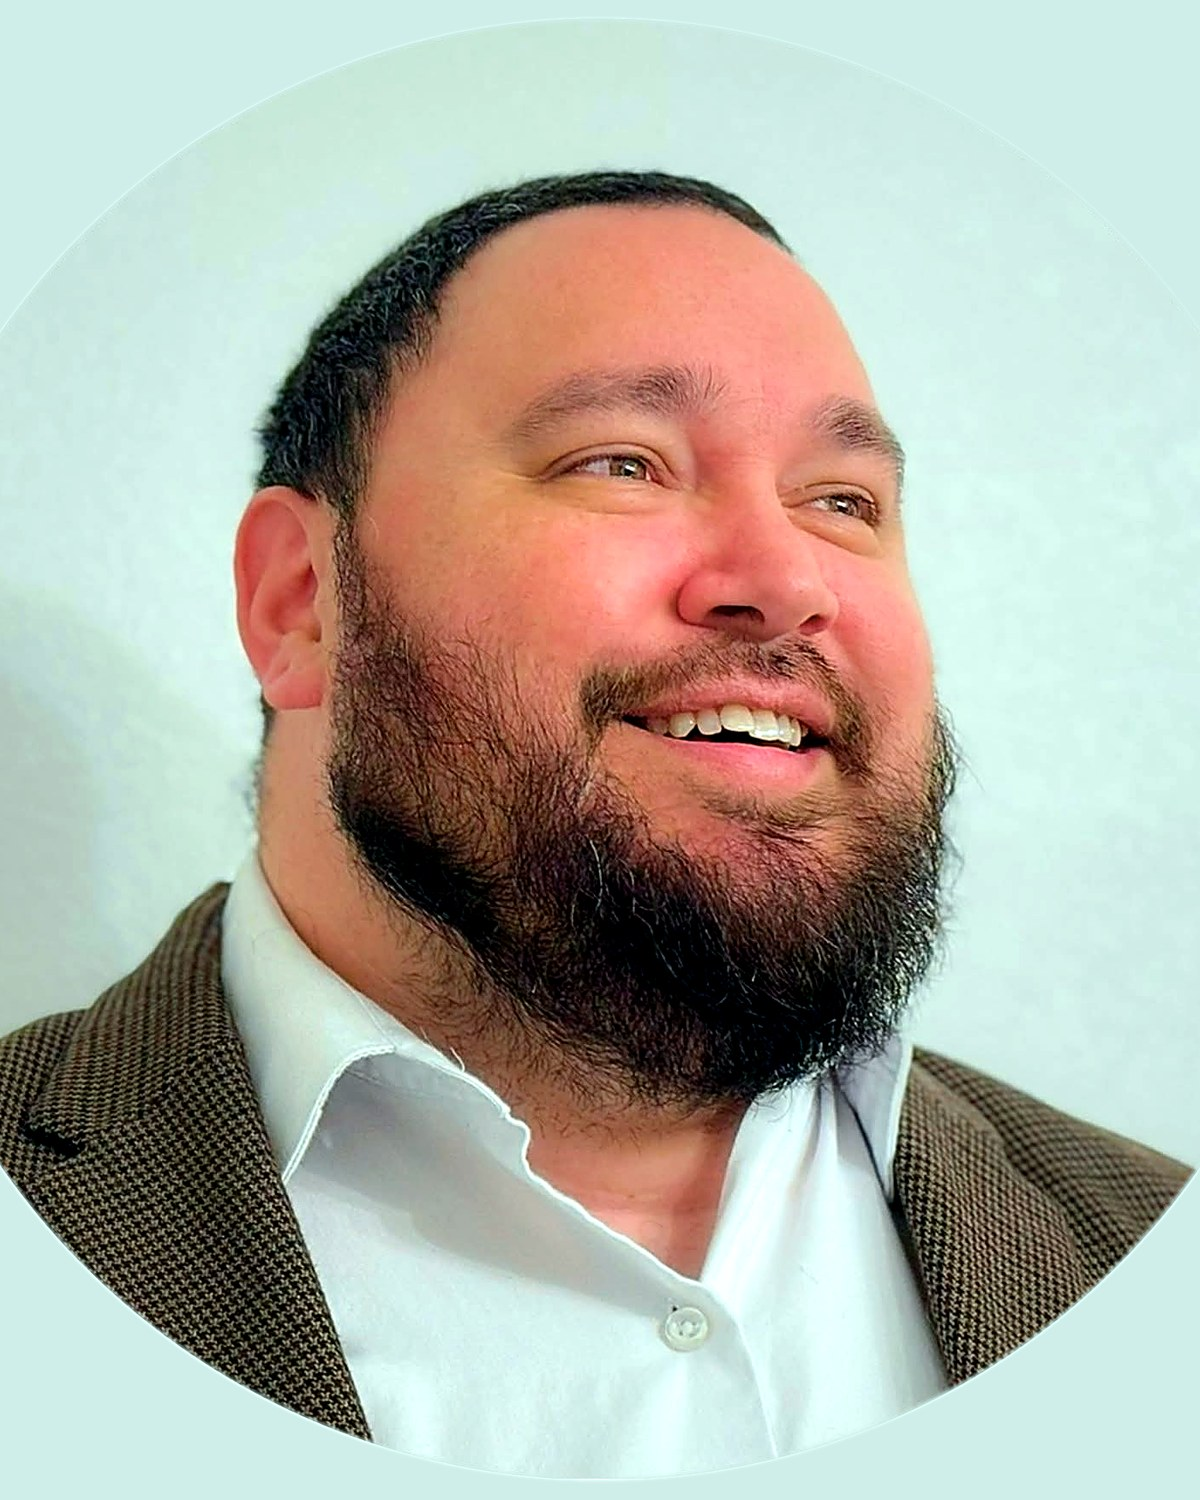
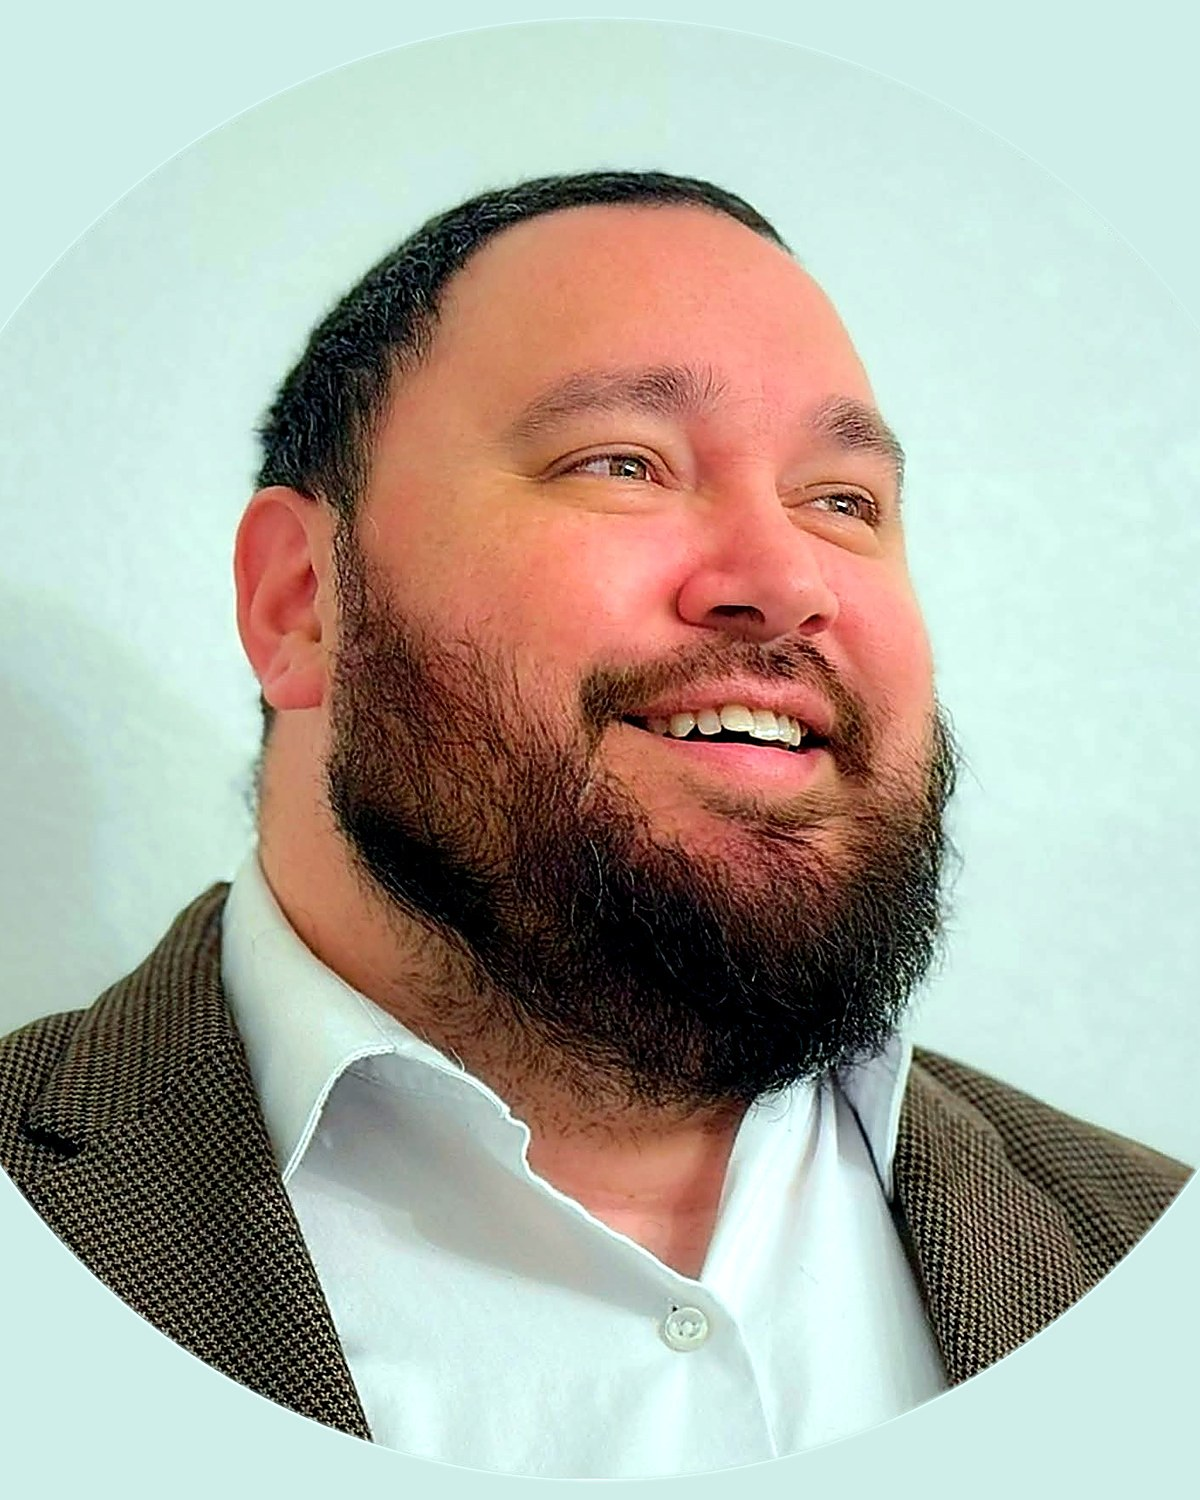
about portrait: fill sparse beard areas for a kept look (masked, skin and shirt untouched)

diff --git a/index.html b/index.html
@@ -12,7 +12,7 @@
 <link rel="preconnect" href="https://fonts.googleapis.com" />
 <link rel="preconnect" href="https://fonts.gstatic.com" crossorigin />
 <link href="https://fonts.googleapis.com/css2?family=Syne:wght@700;800&family=Instrument+Sans:wght@400;500&family=Spline+Sans+Mono:wght@400;500&display=swap" rel="stylesheet" />
-<link rel="stylesheet" href="assets/style.css?v=1784165482" />
+<link rel="stylesheet" href="assets/style.css?v=1784165762" />
 <script>document.documentElement.classList.add("loading");setTimeout(function(){document.documentElement.classList.remove("loading")},6000);</script>
 <script>try{var t=localStorage.getItem("tjm-theme");if(t==="dark")document.documentElement.setAttribute("data-theme","dark")}catch(e){}</script>
 </head>
@@ -165,8 +165,8 @@
 </footer>
 
 <a class="totop" id="totop" href="#top" aria-label="Back to top">&uarr;</a>
-<script src="assets/main.js?v=1784165482"></script>
-<script src="assets/vortex.js?v=1784165482"></script>
-<script src="assets/cube.js?v=1784165482"></script>
+<script src="assets/main.js?v=1784165762"></script>
+<script src="assets/vortex.js?v=1784165762"></script>
+<script src="assets/cube.js?v=1784165762"></script>
 </body>
 </html>

diff --git a/about/index.html b/about/index.html
@@ -11,7 +11,7 @@
 <link rel="preconnect" href="https://fonts.googleapis.com" />
 <link rel="preconnect" href="https://fonts.gstatic.com" crossorigin />
 <link href="https://fonts.googleapis.com/css2?family=Syne:wght@700;800&family=Instrument+Sans:wght@400;500&family=Spline+Sans+Mono:wght@400;500&display=swap" rel="stylesheet" />
-<link rel="stylesheet" href="../assets/style.css?v=1784165482" />
+<link rel="stylesheet" href="../assets/style.css?v=1784165762" />
 </head>
 <body class="p-violet">
 
@@ -39,7 +39,7 @@
 
 <section class="chapter about-grid" data-rail="Who I am">
   <figure class="portrait">
-    <img src="../assets/tony.jpg" alt="Tony Joe Morales" onerror="this.closest('figure').classList.add('noimg')" />
+    <img src="../assets/tony.jpg?v=1784165762" alt="Tony Joe Morales" onerror="this.closest('figure').classList.add('noimg')" />
     <span class="mono-mark" aria-hidden="true">TJ</span>
   </figure>
   <div class="bio">
@@ -79,6 +79,6 @@
   <span>Designed with intent. Built by hand.</span>
 </footer>
 
-<script src="../assets/main.js?v=1784165482"></script>
+<script src="../assets/main.js?v=1784165762"></script>
 </body>
 </html>

diff --git a/baltimore-collegetown/index.html b/baltimore-collegetown/index.html
@@ -11,7 +11,7 @@
 <link rel="preconnect" href="https://fonts.googleapis.com" />
 <link rel="preconnect" href="https://fonts.gstatic.com" crossorigin />
 <link href="https://fonts.googleapis.com/css2?family=Syne:wght@700;800&family=Instrument+Sans:wght@400;500&family=Spline+Sans+Mono:wght@400;500&display=swap" rel="stylesheet" />
-<link rel="stylesheet" href="../assets/style.css?v=1784165482" />
+<link rel="stylesheet" href="../assets/style.css?v=1784165762" />
 <script>try{var t=localStorage.getItem("tjm-theme");if(t==="dark")document.documentElement.setAttribute("data-theme","dark")}catch(e){}</script>
 </head>
 <body class="p-rose">
@@ -103,6 +103,6 @@
   <span>Designed with intent. Built by hand.</span>
 </footer>
 
-<script src="../assets/main.js?v=1784165482"></script>
+<script src="../assets/main.js?v=1784165762"></script>
 </body>
 </html>

diff --git a/band-of-the-hills/index.html b/band-of-the-hills/index.html
@@ -11,7 +11,7 @@
 <link rel="preconnect" href="https://fonts.googleapis.com" />
 <link rel="preconnect" href="https://fonts.gstatic.com" crossorigin />
 <link href="https://fonts.googleapis.com/css2?family=Syne:wght@700;800&family=Instrument+Sans:wght@400;500&family=Spline+Sans+Mono:wght@400;500&display=swap" rel="stylesheet" />
-<link rel="stylesheet" href="../assets/style.css?v=1784165482" />
+<link rel="stylesheet" href="../assets/style.css?v=1784165762" />
 <script>try{var t=localStorage.getItem("tjm-theme");if(t==="dark")document.documentElement.setAttribute("data-theme","dark")}catch(e){}</script>
 </head>
 <body class="p-lime">
@@ -110,6 +110,6 @@
   <span>Designed with intent. Built by hand.</span>
 </footer>
 
-<script src="../assets/main.js?v=1784165482"></script>
+<script src="../assets/main.js?v=1784165762"></script>
 </body>
 </html>

diff --git a/one-house/index.html b/one-house/index.html
@@ -11,7 +11,7 @@
 <link rel="preconnect" href="https://fonts.googleapis.com" />
 <link rel="preconnect" href="https://fonts.gstatic.com" crossorigin />
 <link href="https://fonts.googleapis.com/css2?family=Syne:wght@700;800&family=Instrument+Sans:wght@400;500&family=Spline+Sans+Mono:wght@400;500&display=swap" rel="stylesheet" />
-<link rel="stylesheet" href="../assets/style.css?v=1784165482" />
+<link rel="stylesheet" href="../assets/style.css?v=1784165762" />
 <script>try{var t=localStorage.getItem("tjm-theme");if(t==="dark")document.documentElement.setAttribute("data-theme","dark")}catch(e){}</script>
 </head>
 <body class="p-teal">
@@ -103,6 +103,6 @@
   <span>Designed with intent. Built by hand.</span>
 </footer>
 
-<script src="../assets/main.js?v=1784165482"></script>
+<script src="../assets/main.js?v=1784165762"></script>
 </body>
 </html>

diff --git a/umb-graduate/index.html b/umb-graduate/index.html
@@ -11,7 +11,7 @@
 <link rel="preconnect" href="https://fonts.googleapis.com" />
 <link rel="preconnect" href="https://fonts.gstatic.com" crossorigin />
 <link href="https://fonts.googleapis.com/css2?family=Syne:wght@700;800&family=Instrument+Sans:wght@400;500&family=Spline+Sans+Mono:wght@400;500&display=swap" rel="stylesheet" />
-<link rel="stylesheet" href="../assets/style.css?v=1784165482" />
+<link rel="stylesheet" href="../assets/style.css?v=1784165762" />
 <script>try{var t=localStorage.getItem("tjm-theme");if(t==="dark")document.documentElement.setAttribute("data-theme","dark")}catch(e){}</script>
 </head>
 <body class="p-violet">
@@ -103,6 +103,6 @@
   <span>Designed with intent. Built by hand.</span>
 </footer>
 
-<script src="../assets/main.js?v=1784165482"></script>
+<script src="../assets/main.js?v=1784165762"></script>
 </body>
 </html>